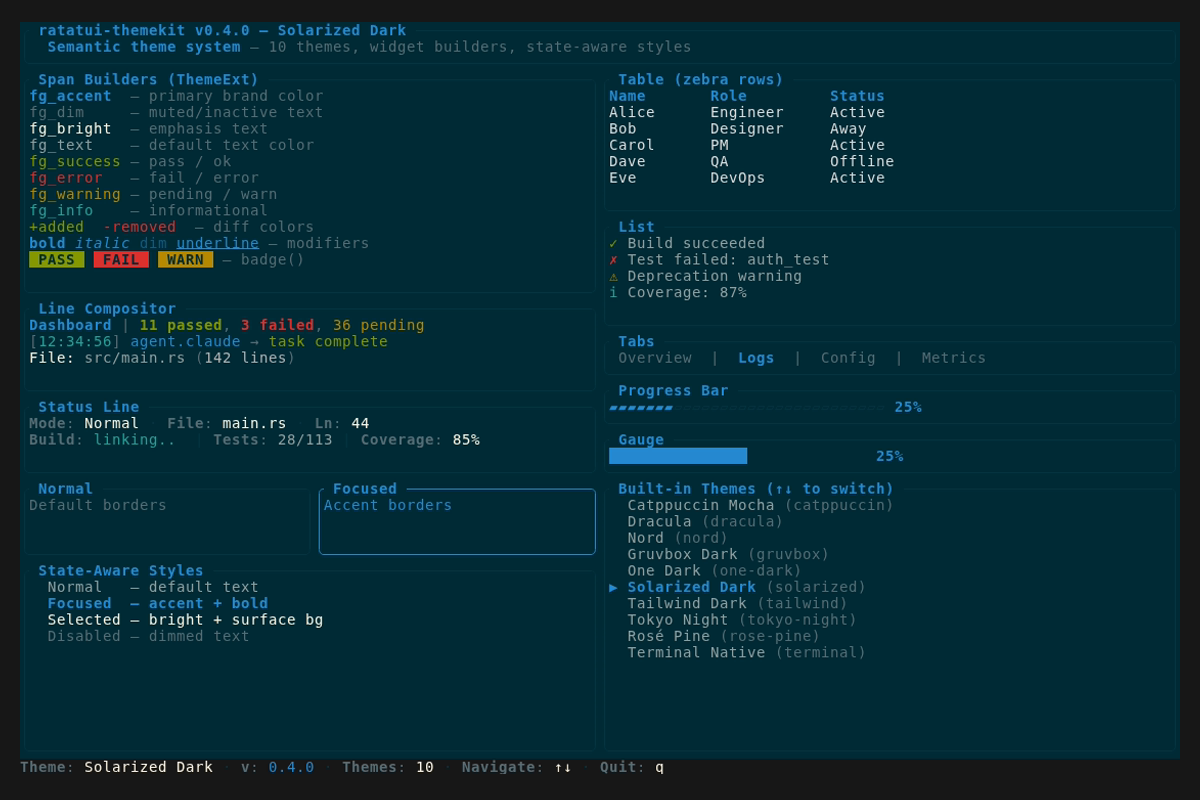
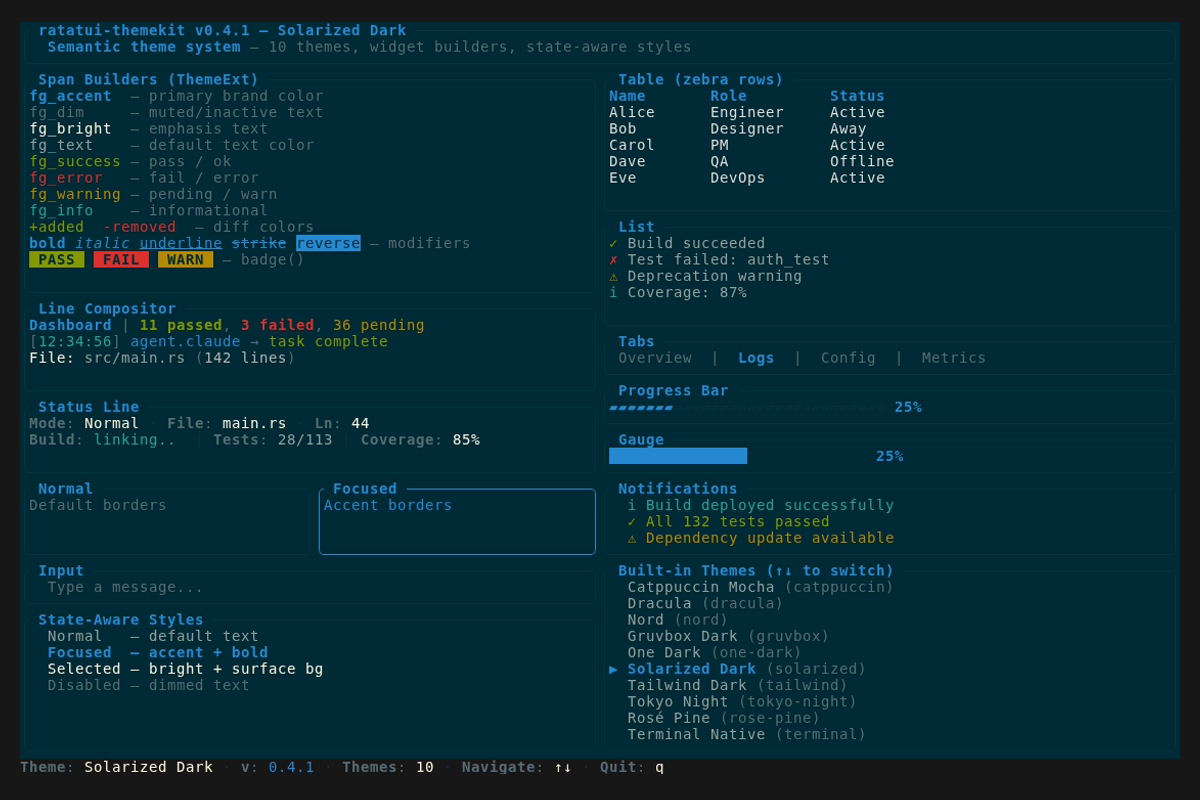
docs: update showcase with all features, regenerate assets, enforce rule
- Showcase: add notification demo, crossed_out/reversed modifiers, input bg
- Regenerate all 10 PNGs + GIF with current state
- AGENTS.md: enforce showcase+docs+screenshots update as golden rule

diff --git a/examples/showcase.rs b/examples/showcase.rs
@@ -180,6 +180,7 @@ fn render_body(frame: &mut Frame<'_>, area: Rect, t: &dyn Theme, state: &AnimSta
             Constraint::Length(3),
             Constraint::Length(3),
             Constraint::Length(3),
+            Constraint::Length(5),
             Constraint::Min(0),
         ])
         .split(columns[1]);
@@ -189,7 +190,8 @@ fn render_body(frame: &mut Frame<'_>, area: Rect, t: &dyn Theme, state: &AnimSta
     render_tabs(frame, right[2], t, state);
     render_bar(frame, right[3], t, state);
     render_gauge(frame, right[4], t, state);
-    render_themes_list(frame, right[5], t, state.theme_index);
+    render_notifications(frame, right[5], t);
+    render_themes_list(frame, right[6], t, state.theme_index);
 }
 
 fn render_spans(frame: &mut Frame<'_>, area: Rect, t: &dyn Theme) {
@@ -238,9 +240,11 @@ fn render_spans(frame: &mut Frame<'_>, area: Rect, t: &dyn Theme) {
             t.fg_dim(" ").build(),
             t.fg_accent("italic").italic().build(),
             t.fg_dim(" ").build(),
-            t.fg_accent("dim").dimmed().build(),
-            t.fg_dim(" ").build(),
             t.fg_accent("underline").underlined().build(),
+            t.fg_dim(" ").build(),
+            t.fg_accent("strike").crossed_out().build(),
+            t.fg_dim(" ").build(),
+            t.fg_accent("reverse").reversed().build(),
             t.fg_dim(" \u{2014} modifiers").build(),
         ]),
         Line::from(vec![
@@ -356,12 +360,14 @@ fn render_input_demo(frame: &mut Frame<'_>, area: Rect, t: &dyn Theme, state: &A
     let typing = state.progress > 30;
 
     let border = if typing { is.border_focused } else { is.border };
+    let bg = ratatui::style::Style::default().bg(t.surface());
     let block = ratatui::widgets::Block::new()
         .borders(ratatui::widgets::Borders::ALL)
         .border_type(ratatui::widgets::BorderType::Rounded)
         .border_style(border)
         .title(" Input ")
-        .title_style(is.prompt);
+        .title_style(is.prompt)
+        .style(bg);
 
     let content = if typing {
         t.line().accent_bold("> ").text("hello world").build()
@@ -489,6 +495,18 @@ fn render_gauge(frame: &mut Frame<'_>, area: Rect, t: &dyn Theme, state: &AnimSt
         .label(format!("{}%", state.progress))
         .block(block);
     frame.render_widget(gauge, area);
+}
+
+fn render_notifications(frame: &mut Frame<'_>, area: Rect, t: &dyn Theme) {
+    let block = t.block(" Notifications ").build();
+    let ns = t.notification_styles();
+    let text = Text::from(vec![
+        Line::styled("  \u{2139} Build deployed successfully", ns.info),
+        Line::styled("  \u{2713} All 132 tests passed", ns.success),
+        Line::styled("  \u{26a0} Dependency update available", ns.warning),
+    ]);
+    let paragraph = Paragraph::new(text).block(block);
+    frame.render_widget(paragraph, area);
 }
 
 fn render_themes_list(frame: &mut Frame<'_>, area: Rect, t: &dyn Theme, selected: usize) {

diff --git a/AGENTS.md b/AGENTS.md
@@ -63,14 +63,24 @@ src/
 - **Trait-based extensibility**: any app can implement custom themes
 - **`NO_COLOR` native**: accessibility built in, not bolted on
 
-## Showcase & Screenshots
+## Showcase, Screenshots & Docs (GOLDEN RULE — NEVER skip)
 
+**EVERY commit that changes builders, themes, style bundles, or ThemeExt MUST update:**
+
+1. **`examples/showcase.rs`** — add demo section for new feature (ALL builders must be visible)
+2. **PNGs + GIF** — `./scripts/generate-screenshots.sh` (requires `vhs`)
+3. **`README.md`** — update Builders section, theme table, examples
+4. **`examples/README.md`** — theme gallery with all PNGs
+5. **`CLAUDE.md` + `AGENTS.md`** — architecture section if file structure changed
+6. **`CONTRIBUTING.md`** — release checklist if process changed
+
+Commands:
 - `cargo run --example showcase` — interactive TUI demo with all builders
-- `./scripts/generate-screenshots.sh` — generates all PNGs + GIF (requires `vhs`)
-- Screenshots MUST be regenerated after: new themes, new builders, version bump
-- `showcase.rs` reads version and theme count dynamically from crate metadata
+- `./scripts/generate-screenshots.sh` — generates all PNGs + GIF
+- `showcase.rs` reads version and theme count dynamically via `env!("CARGO_PKG_VERSION")`
 - `assets/` is excluded from crate publish (Cargo.toml `exclude`)
-- GIF goes in README, PNGs in theme gallery docs
+
+**A feature without updated showcase + docs + screenshots is NOT done.**
 
 ## Code Standards
 
